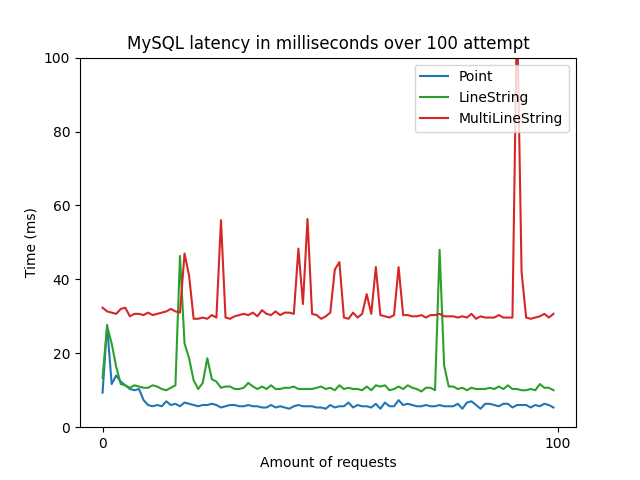
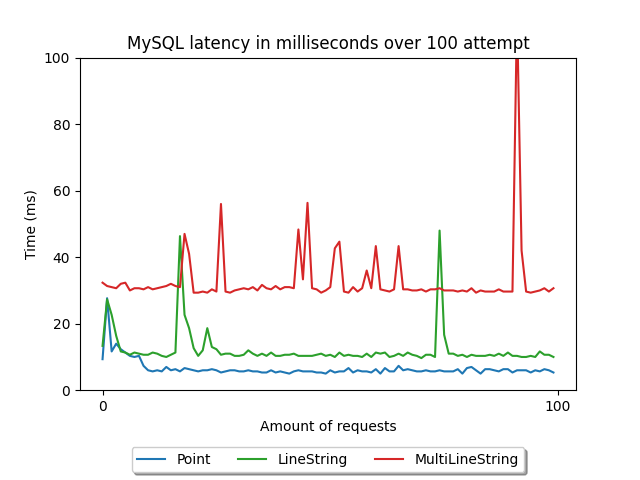
changed label positions

diff --git a/statistics/final study/generate.py b/statistics/final study/generate.py
@@ -43,7 +43,16 @@ def generateLineDiagram(database):
     # Show the plot
     # Customize the x-axis tick locations and labels rotated 45 degrees
     plt.xticks(np.arange(0, global_time_values + 1, 100), rotation=45)
-    plt.legend(["Point", "MultiPoint", "LineString", "MultiLineString", "Polygon", "MultiPolygon"], loc='upper right')
+
+    # Shrink current axis's height by 10% on the bottom
+    ax = plt.subplot(111)
+    box = ax.get_position()
+    ax.set_position([box.x0, box.y0 + box.height * 0.1,
+                    box.width, box.height * 0.9])
+
+    # Put a legend below current axis
+    ax.legend(["Point", "MultiPoint", "LineString", "MultiLineString", "Polygon", "MultiPolygon"],loc='upper center', bbox_to_anchor=(0.5, -0.20),
+            fancybox=True, shadow=True, ncol=5)
     plt.savefig('./figures/{}_linechart.png'.format(database), bbox_inches='tight')
 
 def generateBarDiagram(database):
@@ -174,15 +183,15 @@ def getTotal():
 
     # Create bar diagram
     plt.title("Total combined speed of all datatypes (ms)")
+    plt.ylabel("Time (ms)")
     plt.bar(["MongoDB", "MySQL"], [sum_mongodb, sum_mysql], color = ["#299637", "#2994e6"])
     plt.savefig("./figures/total.png")
 
-# getAnova()
-# getMeans()
-
+getAnova()
+getMeans()
 getTotal()
 
-# generateLineDiagram("mongodb")
-# generateLineDiagram("mysql")
-# generateBarDiagram("mongodb")
-# generateBarDiagram("mysql")
+generateLineDiagram("mongodb")
+generateLineDiagram("mysql")
+generateBarDiagram("mongodb")
+generateBarDiagram("mysql")

diff --git a/statistics/pilot study/generate.py b/statistics/pilot study/generate.py
@@ -43,7 +43,14 @@ def generateLineDiagram(database):
     # Show the plot
     # Customize the x-axis tick locations and labels
     plt.xticks(np.arange(0, global_time_values + 1, 100))
-    plt.legend(["Point", "LineString", "MultiLineString"], loc='upper right')
+    ax = plt.subplot(111)
+    box = ax.get_position()
+    ax.set_position([box.x0, box.y0 + box.height * 0.1,
+                    box.width, box.height * 0.9])
+
+    # Put a legend below current axis
+    ax.legend(["Point", "LineString", "MultiLineString"],loc='upper center', bbox_to_anchor=(0.5, -0.15),
+            fancybox=True, shadow=True, ncol=5)
     plt.savefig('./figures/{}_linechart.png'.format(database))
 
 def generateBarDiagram(database):
@@ -153,7 +160,7 @@ def getAnova():
         print("")
 
 getAnova()
-# getMeans()
+getMeans()
 
 generateLineDiagram("mongodb")
 generateLineDiagram("mysql")
